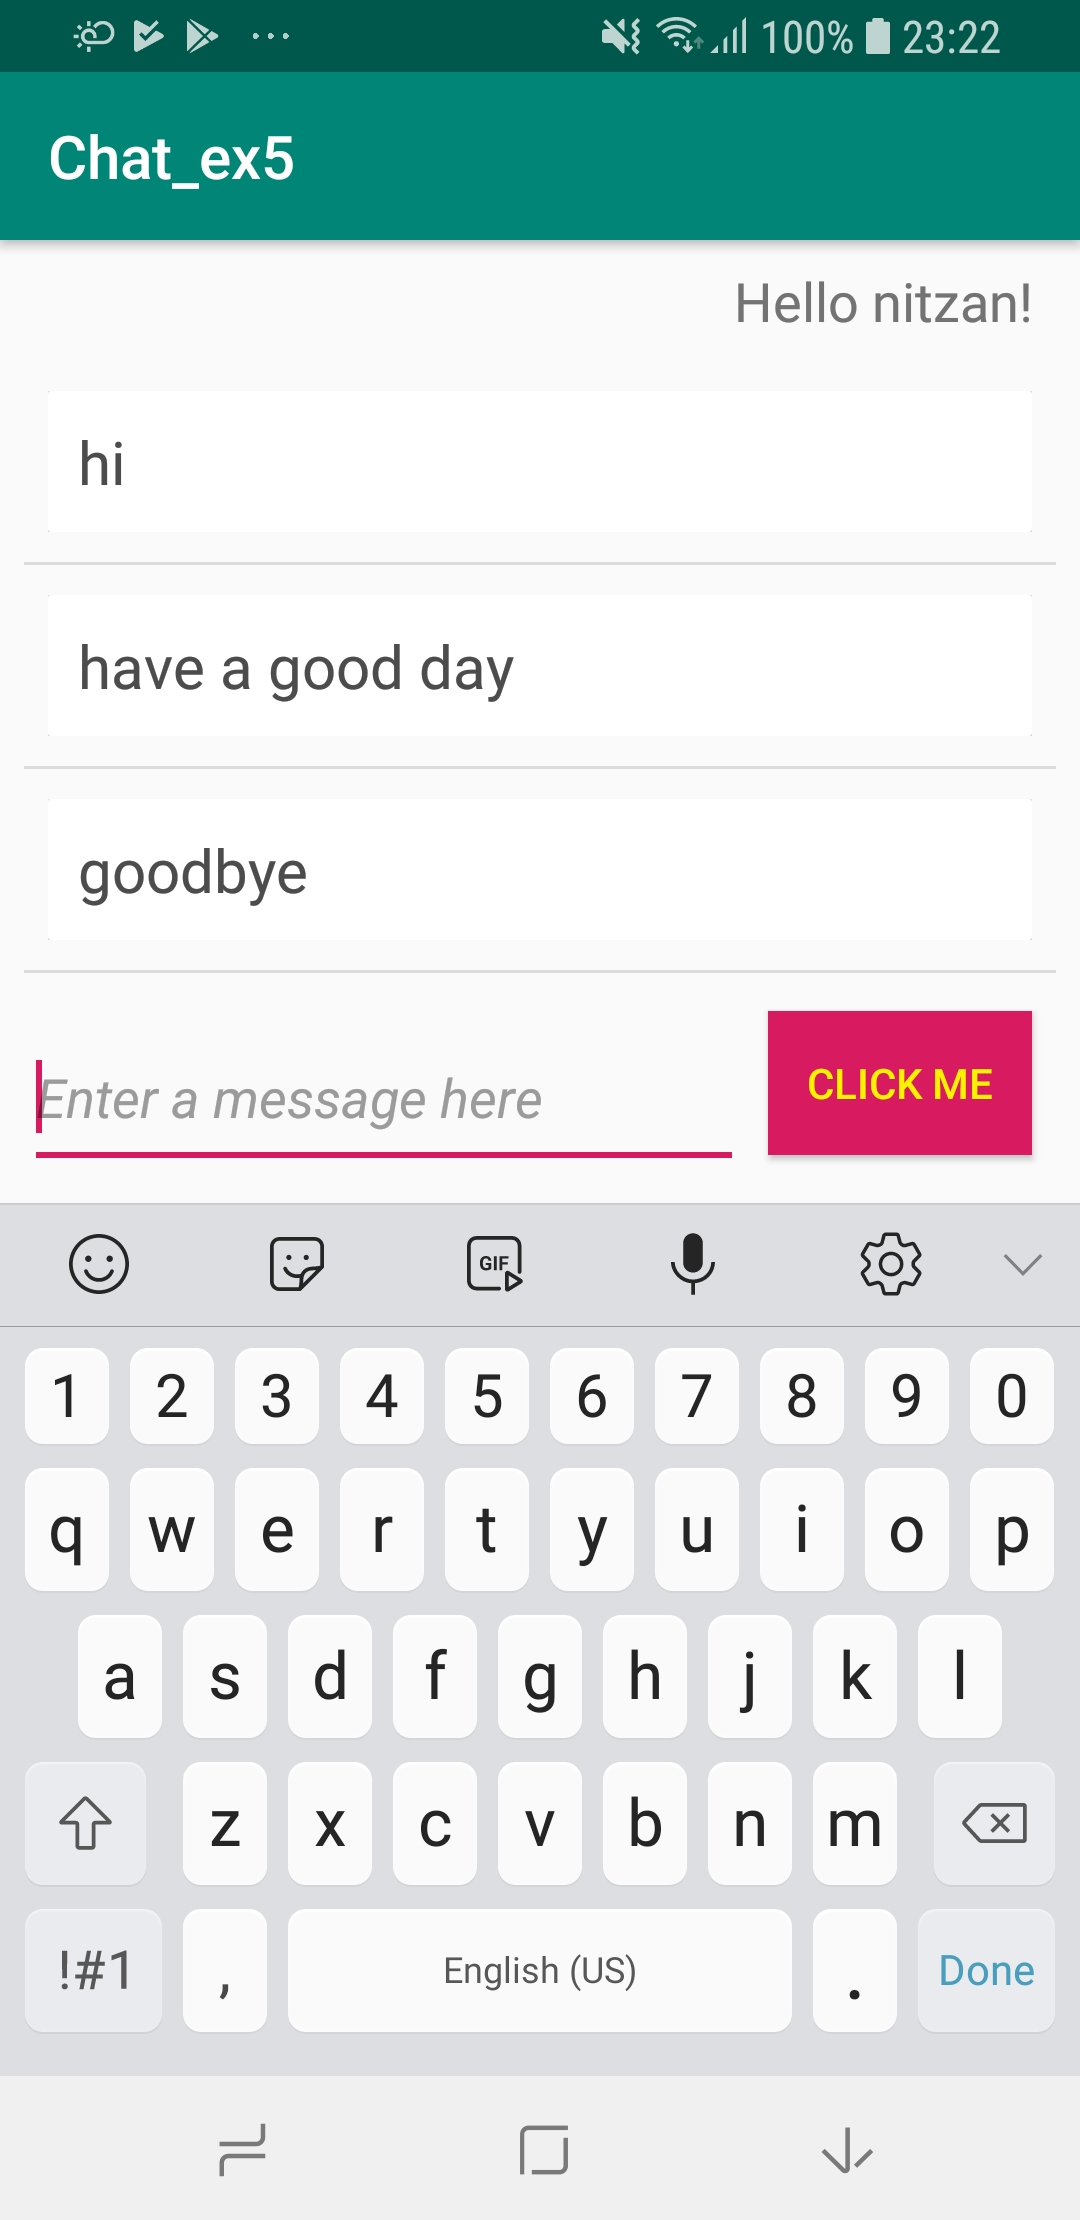
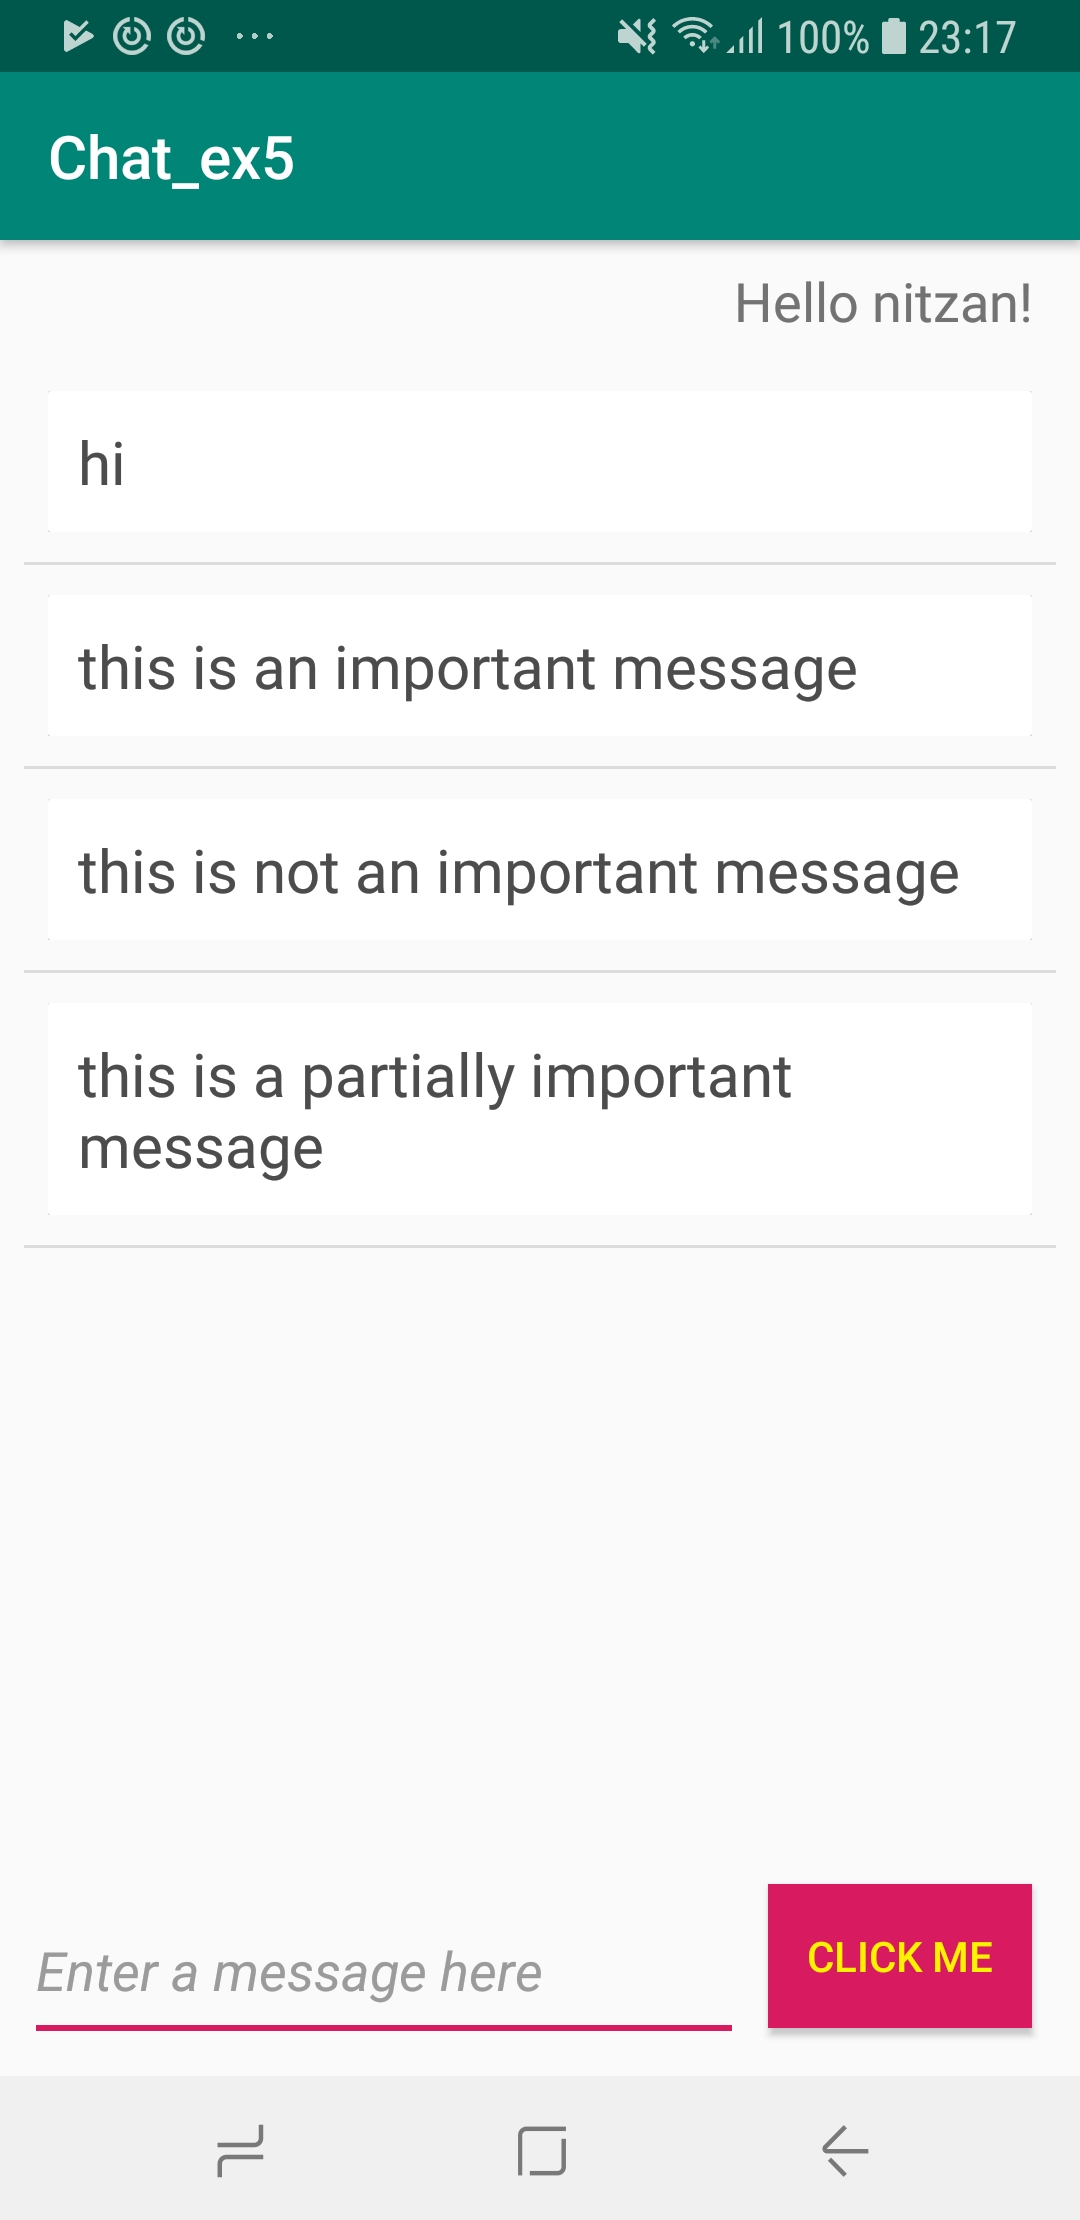
Ex5

diff --git a/Ex5/app/src/main/java/com/example/niwagner/ex5/MessageRecyclerUtils.kt b/Ex5/app/src/main/java/com/example/niwagner/ex5/MessageRecyclerUtils.kt
@@ -1,5 +1,8 @@
 package com.example.niwagner.ex5
 
+import android.app.Activity
+import android.content.Context
+import android.content.Intent
 import android.graphics.Color
 import android.support.v7.recyclerview.extensions.ListAdapter
 import android.support.v7.util.DiffUtil
@@ -19,40 +22,26 @@ class MessageRecyclerUtils {
 
         private var mMessage: TextView = v.findViewById(R.id.message_text)
 
-        fun bind(message: Message, callback: MessageHolderCallback) {
+        fun bind(message: Message) {
             mMessage.text = message.mText
             mMessage.setTextColor(Color.parseColor("#4c4c4c"))
-            createAlertDialog(v, message, callback)
         }
 
-        private fun createAlertDialog(v: View, message: Message, callback: MessageHolderCallback) {
-            v.setOnLongClickListener(View.OnLongClickListener {
-                val adb = AlertDialog.Builder(v.context)
-                adb.setTitle("Delete?")
-                adb.setMessage("Are you sure you want to delete ${message.mText}?")
-                adb.setNegativeButton("Cancel", null)
-                    .setPositiveButton("Delete") { _, _ -> callback.itemWasClickedToDelete(adapterPosition) }
-                    .setCancelable(false)
-                    .show()
+        class MessageCallback : DiffUtil.ItemCallback<Message>() {
+            override fun areItemsTheSame(p0: Message, p1: Message): Boolean {
+                return p0 == p1
+            }
 
-                return@OnLongClickListener true
-            })
+            override fun areContentsTheSame(p0: Message, p1: Message): Boolean {
+                return p0.mText == p1.mText
+            }
         }
     }
 
-    class MessageCallback : DiffUtil.ItemCallback<Message>() {
-        override fun areItemsTheSame(p0: Message, p1: Message): Boolean {
-            return p0 == p1
-        }
-
-        override fun areContentsTheSame(p0: Message, p1: Message): Boolean {
-            return p0.mText == p1.mText
-        }
-    }
-
-    class MessageAdapter : ListAdapter<Message, MessageHolder>(MessageCallback()) {
+    class MessageAdapter(context: Activity) : ListAdapter<Message, MessageHolder>(MessageHolder.MessageCallback()) {
 
         private var mMessages: MutableList<Message>? = ArrayList<Message>()
+        private val mContext = context
 
         override fun onCreateViewHolder(parent: ViewGroup, viewType: Int): MessageHolder {
             return MessageHolder(
@@ -61,15 +50,28 @@ class MessageRecyclerUtils {
         }
 
         override fun onBindViewHolder(holder: MessageHolder, position: Int) {
-            holder.bind(getItem(position), object : MessageHolderCallback {
-                override fun itemWasClickedToDelete(position: Int) {
-                    deleteMessageFromRemoteDB(getItem(position))
-                    mMessages?.remove(getItem(position))
-                    notifyItemRemoved(position)
-                    notifyItemRangeChanged(position, mMessages!!.size)
-                }
+            holder.bind(getItem(position))
+
+            holder.itemView.setOnLongClickListener(View.OnLongClickListener {
+                val curMessage = getItem(position)
+                val intentMessageDetails = Intent(mContext, MessageDetailsActivity::class.java)
+                    .putExtra("position", position)
+                    .putExtra("text", curMessage.mText)
+                    .putExtra("id", curMessage.mId)
+                    .putExtra("phone", curMessage.mPhoneId)
+                    .putExtra("timestamp", curMessage.mTimestamp.toString())
+                mContext.startActivityForResult(intentMessageDetails, 1)
+
+                return@OnLongClickListener true
             })
         }
+
+        fun deleteMessage(position: Int) {
+            mMessages?.remove(getItem(position))
+            notifyItemRemoved(position)
+            notifyItemRangeChanged(position, mMessages!!.size)
+        }
+
 
         private fun deleteMessageFromRemoteDB(message: Message) {
             val db = FirebaseFirestore.getInstance()
@@ -80,7 +82,6 @@ class MessageRecyclerUtils {
                 .addOnFailureListener { e ->
                     Log.w("TAG", "Error deleting message document", e)
                 }
-
         }
 
         override fun submitList(list: MutableList<Message>?) {

diff --git a/Ex5/app/src/main/java/com/example/niwagner/ex5/MainActivity.kt b/Ex5/app/src/main/java/com/example/niwagner/ex5/MainActivity.kt
@@ -20,7 +20,6 @@ import android.widget.Toast
 import com.google.firebase.firestore.FirebaseFirestore
 import com.google.gson.Gson
 import com.google.gson.reflect.TypeToken
-import kotlinx.android.synthetic.main.activity_main.*
 import java.util.*
 import java.util.concurrent.Executors
 import kotlin.collections.ArrayList
@@ -30,14 +29,16 @@ class MainActivity : AppCompatActivity() {
     private val SP_MESSAGES_LIST = "Messages"
     private val SP_LIST_LENGTH = "NumberOfMessages"
     private val EDIT_TEXT = "EditTextInput"
+    private val PHONE_ID = "PhoneId"
     private val NOT_FIRST_LAUNCH = "FirstLaunch"
 
     private lateinit var mUserNameTextView: TextView
     private lateinit var mUserInput: EditText
     private lateinit var mUserButton: Button
-    private var mAdapter = MessageRecyclerUtils.MessageAdapter()
+    private var mAdapter = MessageRecyclerUtils.MessageAdapter(this)
     private lateinit var mRecyclerView: RecyclerView
     private lateinit var mSharedPreferences: SharedPreferences
+    private lateinit var mPhoneId : String
     private var mExecutor = Executors.newSingleThreadExecutor()
 
     override fun onCreate(savedInstanceState: Bundle?) {
@@ -45,7 +46,6 @@ class MainActivity : AppCompatActivity() {
 
         setContentView(R.layout.activity_main)
         mSharedPreferences = PreferenceManager.getDefaultSharedPreferences(this)
-
 
         mUserNameTextView = findViewById(R.id.user_name)
         FirebaseFirestore.getInstance().collection("defaults").document("user").get()
@@ -60,9 +60,11 @@ class MainActivity : AppCompatActivity() {
         prepareEditTextUserInput()
         prepareButtonSend()
 
+        mPhoneId = mSharedPreferences.getString(PHONE_ID, UUID.randomUUID().toString())
         if (!mSharedPreferences.getBoolean(NOT_FIRST_LAUNCH, false)) {
             setAdapterListFromRemoteDB()
             mSharedPreferences.edit().putBoolean(NOT_FIRST_LAUNCH, true).apply()
+            mPhoneId = UUID.randomUUID().toString()
         } else {
             setAdapterListFromSP()
         }
@@ -103,7 +105,7 @@ class MainActivity : AppCompatActivity() {
                 Toast.makeText(this@MainActivity, "Please enter a valid message", Toast.LENGTH_SHORT).show()
                 hideKeyboard(mUserInput)
             } else {
-                val message = Message(mUserInput.text.toString(), Date(), UUID.randomUUID().toString())
+                val message = Message(mUserInput.text.toString(), Date(), UUID.randomUUID().toString(), mPhoneId)
                 mAdapter.addToList(message)
                 mUserInput.text.clear()
                 hideKeyboard(mUserInput)
@@ -153,14 +155,28 @@ class MainActivity : AppCompatActivity() {
             }
     }
 
+    private fun deleteMessageFromRemoteDB(messageId: String) {
+        val db = FirebaseFirestore.getInstance()
+        db.collection("messages").document(messageId).delete()
+            .addOnSuccessListener {
+                Log.d("TAG", "Message document with ID: $messageId was deleted successfully")
+            }
+            .addOnFailureListener { e ->
+                Log.w("TAG", "Error deleting message document", e)
+            }
+    }
+
     override fun onActivityResult(requestCode: Int, resultCode: Int, data: Intent?) {
         super.onActivityResult(requestCode, resultCode, data)
 
         mUserNameTextView = findViewById(R.id.user_name)
         if (requestCode == 1) {
             if (resultCode == Activity.RESULT_OK) {
-                val returnString = data!!.getStringExtra("keyName")
-                mUserNameTextView.text = getString(R.string.hello_user, returnString)
+                if(data!!.getBooleanExtra("delete", false)) {
+                    deleteMessageFromRemoteDB(data.getStringExtra("id"))
+                    mAdapter.deleteMessage(data.getIntExtra("position", 0))
+                }
+
             }
         }
     }

diff --git a/Ex5/app/src/main/java/com/example/niwagner/ex5/MessageDetailsActivity.kt b/Ex5/app/src/main/java/com/example/niwagner/ex5/MessageDetailsActivity.kt
@@ -1,0 +1,48 @@
+package com.example.niwagner.ex5
+
+import android.os.Bundle
+import android.support.v7.app.AppCompatActivity
+import android.util.Log
+import android.view.View
+import android.widget.Button
+import android.widget.TextView
+import com.google.firebase.firestore.FirebaseFirestore
+import android.app.Activity
+import android.content.Intent
+import org.w3c.dom.Text
+
+
+class MessageDetailsActivity : AppCompatActivity() {
+
+    private lateinit var mMessageText : TextView
+    private lateinit var mTimestamp : TextView
+    private lateinit var mPhoneNum : TextView
+    private lateinit var mButton : Button
+
+    override fun onCreate(savedInstanceState: Bundle?) {
+        super.onCreate(savedInstanceState)
+        setContentView(R.layout.message_details)
+
+        mMessageText = findViewById(R.id.textmessage)
+        mTimestamp = findViewById(R.id.timestamp)
+        mPhoneNum = findViewById(R.id.phone)
+
+        mMessageText.text = getString(R.string.message, intent.getStringExtra("text"))
+        mTimestamp.text = getString(R.string.timestamp, intent.getStringExtra("timestamp"))
+        mPhoneNum.text = getString(R.string.phone_num, intent.getStringExtra("phone"))
+
+        prepareDeleteButton()
+    }
+
+    private fun prepareDeleteButton() {
+        this.mButton = findViewById(R.id.delete_button)
+        mButton.setOnClickListener {
+            val position = intent.getIntExtra("position", 0)
+            val id = intent.getStringExtra("id")
+            val intent = Intent()
+            intent.putExtra("position", position).putExtra("id", id).putExtra("delete", true)
+            setResult(Activity.RESULT_OK, intent)
+            finish()
+        }
+    }
+}

diff --git a/Ex5/app/src/main/java/com/example/niwagner/ex5/SignInActivity.kt b/Ex5/app/src/main/java/com/example/niwagner/ex5/SignInActivity.kt
@@ -94,13 +94,10 @@ class SignInActivity : AppCompatActivity() {
             }
 
             fun setTextView(s: CharSequence) {
-                //this.runOnUiThread(Runnable { mLayoutLights.setVisibility(View.VISIBLE) })
                 if (s.isBlank()) {
                     runOnUiThread{ mButtonName.visibility = View.GONE }
                 } else {
                     runOnUiThread{ mButtonName.visibility = View.VISIBLE }
-                    //mButtonName.visibility = View.VISIBLE
-                    //mButtonName.bringToFront()
                 }
             }
         })
@@ -124,7 +121,7 @@ class SignInActivity : AppCompatActivity() {
     }
 
     private fun goToMainActivity() {
-        intent = Intent(this, MainActivity::class.java)
+        val intent = Intent(this, MainActivity::class.java)
         mProgressBar.dialog?.dismiss()
         startActivity(intent)
         finish()

diff --git a/Ex5/app/src/main/java/com/example/niwagner/ex5/Message.kt b/Ex5/app/src/main/java/com/example/niwagner/ex5/Message.kt
@@ -4,7 +4,8 @@ import com.google.firebase.firestore.IgnoreExtraProperties
 import java.util.*
 
 @IgnoreExtraProperties
-class Message(var mText: String = "", var mTimestamp: Date = Date(), var mId: String = "") : Comparable<Message> {
+class Message(var mText: String = "", var mTimestamp: Date = Date(), var mId: String = "", var mPhoneId: String = "")
+    : Comparable<Message> {
 
     override fun compareTo(other: Message): Int {
         return this.mTimestamp.compareTo(other.mTimestamp)
